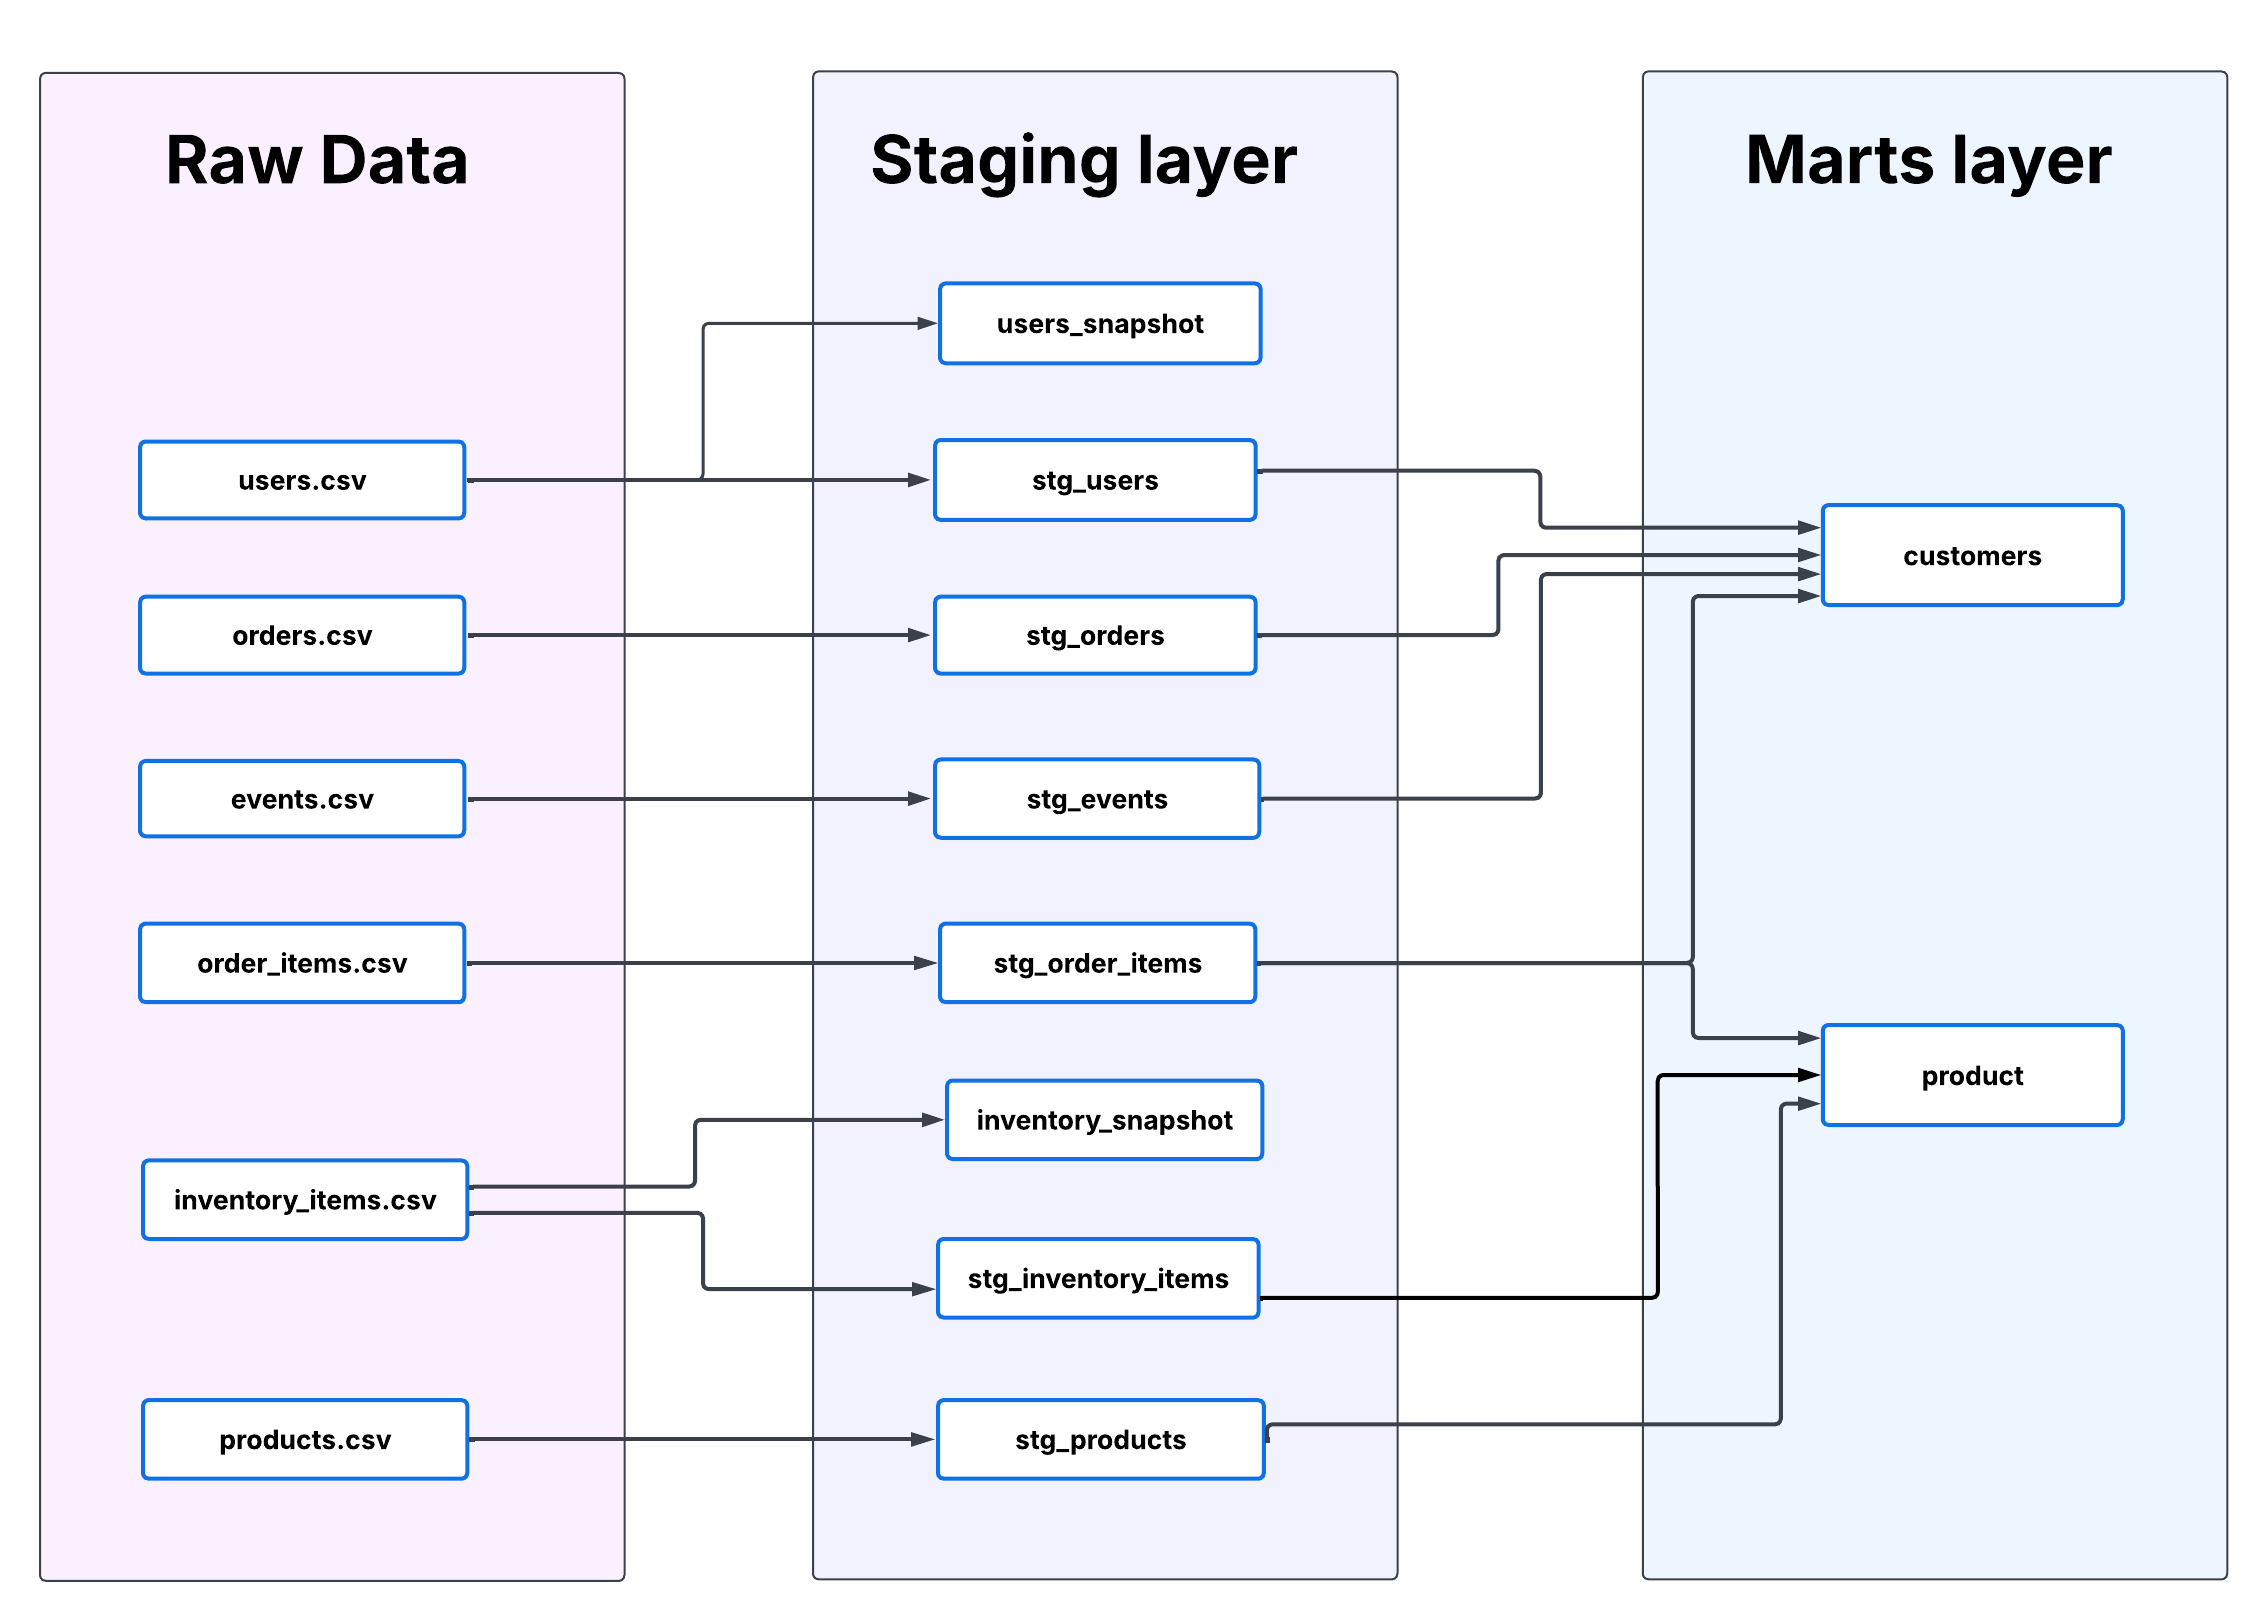
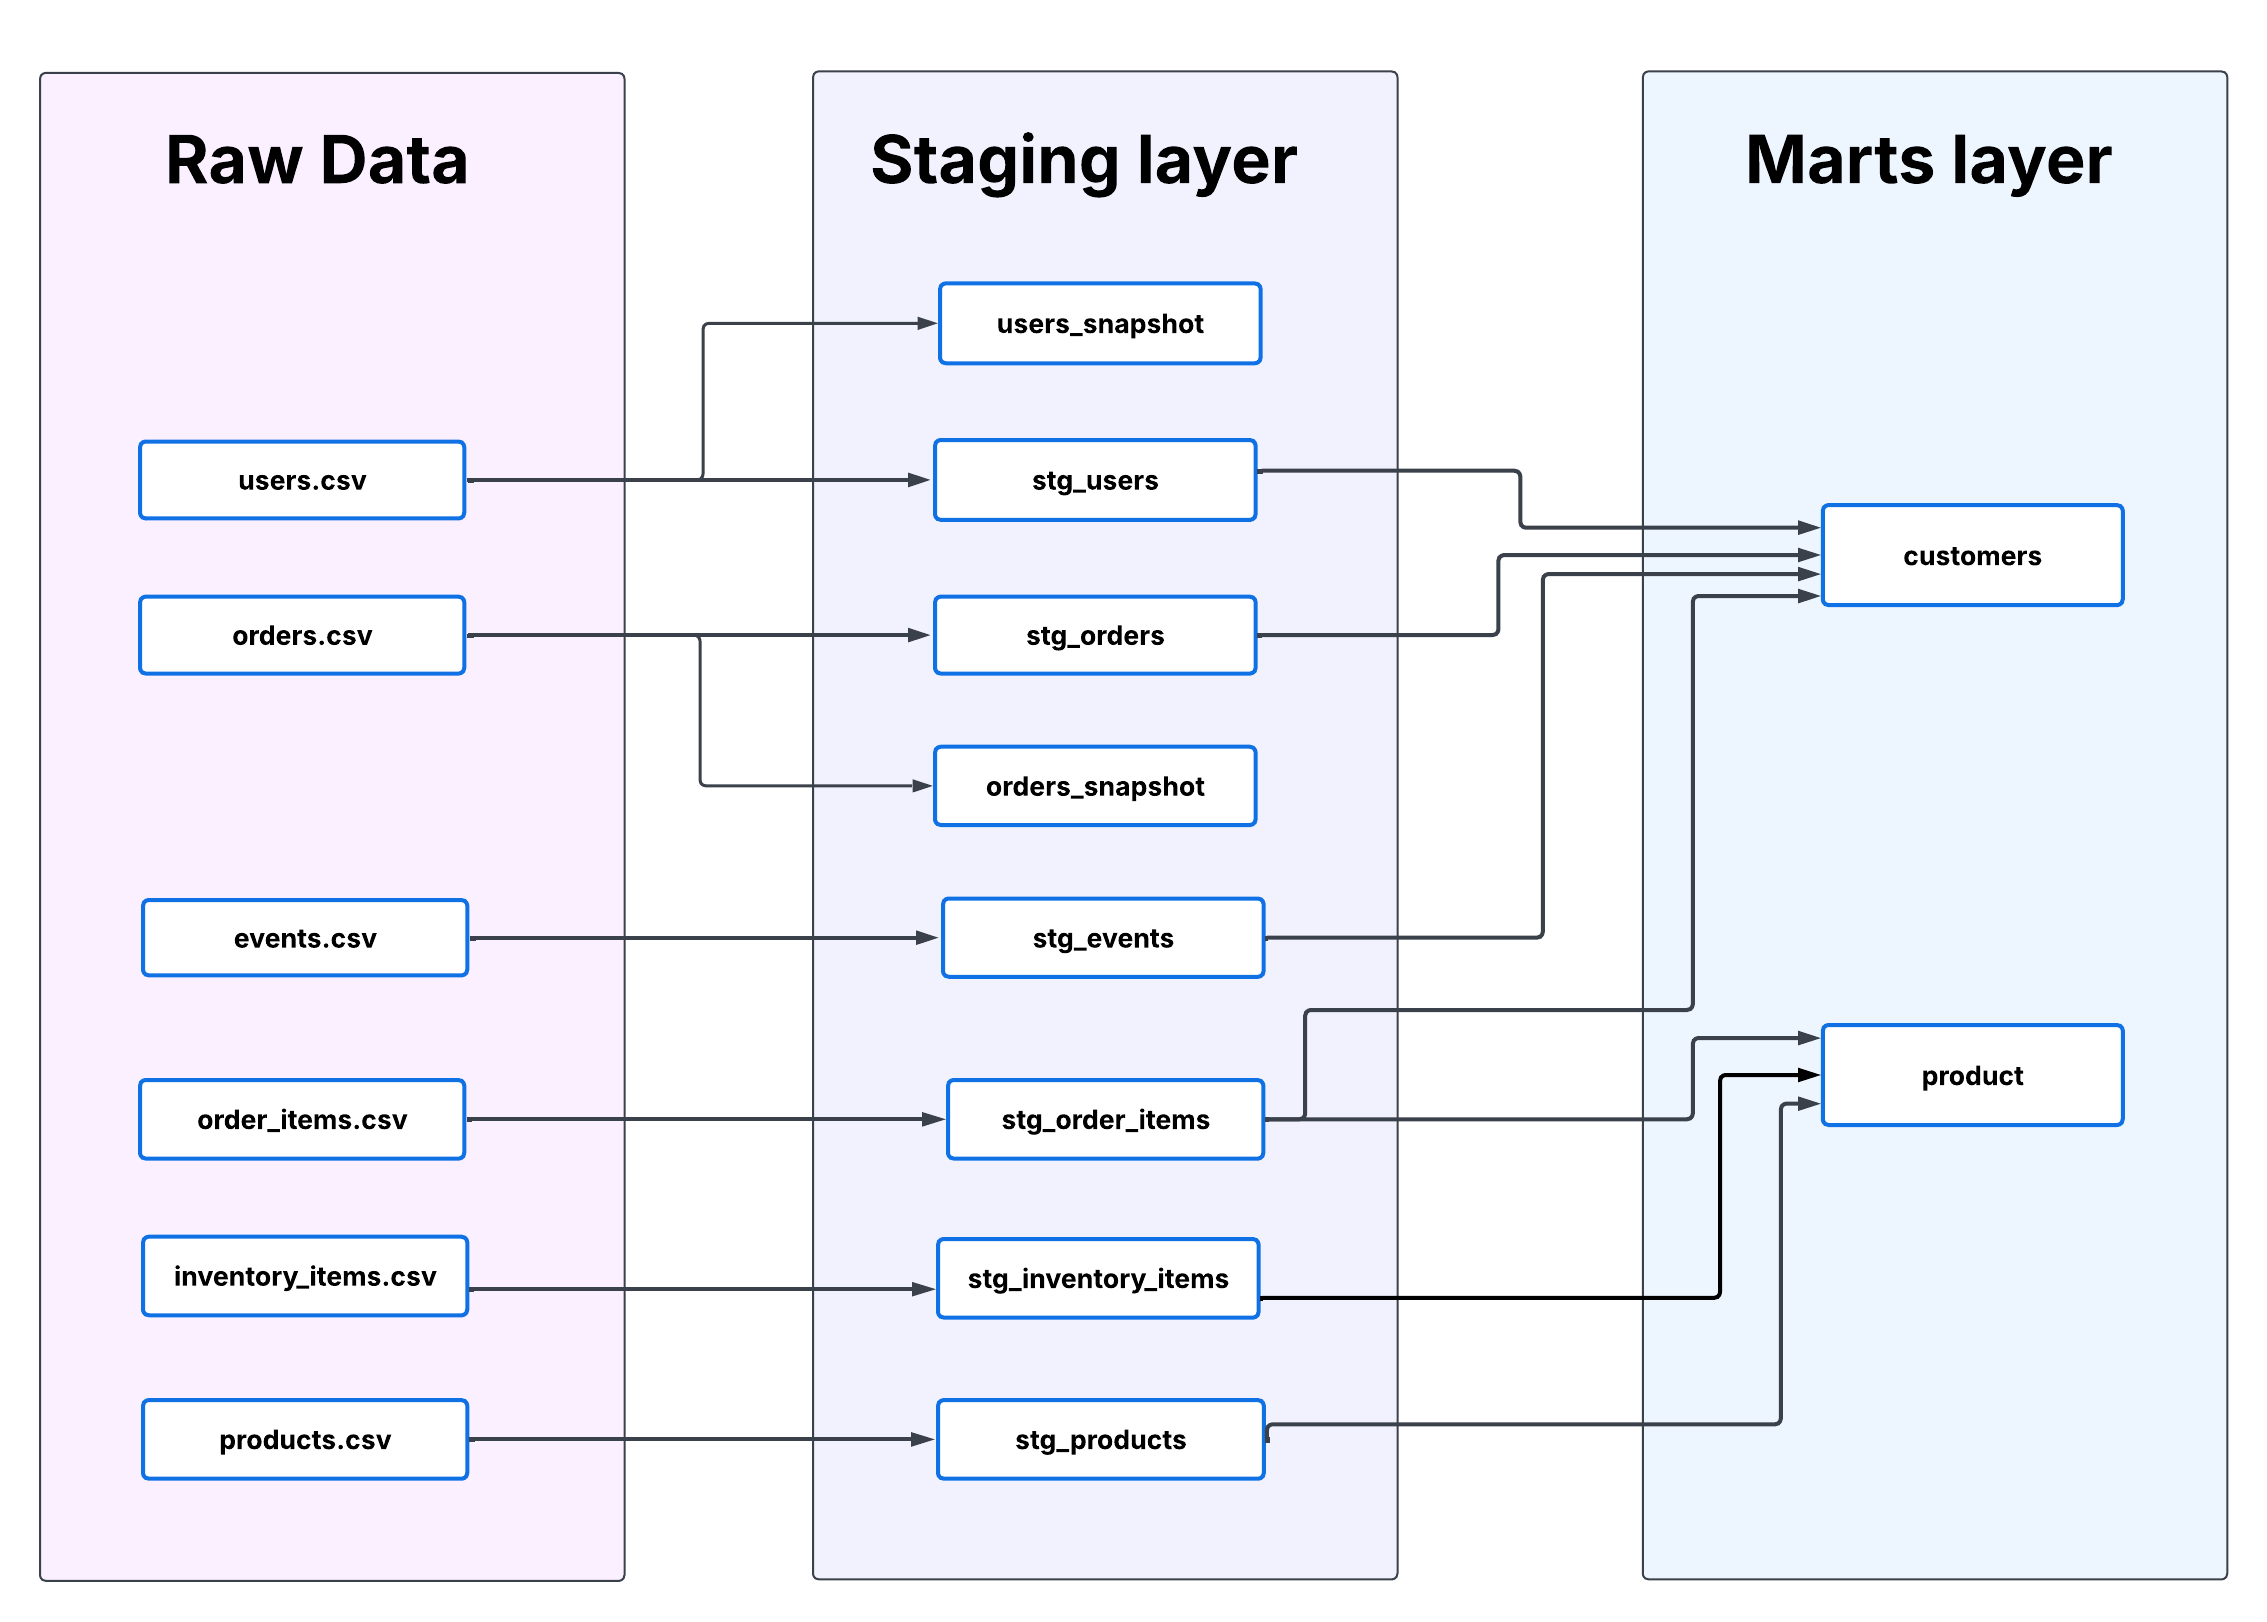
Editing the README

diff --git a/README.md b/README.md
@@ -57,7 +57,7 @@ The source dataset contains customer, order, inventory, product and event inform
 
 The following diagram shows the relationships between the different tables.
 
-![Entity Relationship Diagram](images/erd.png)
+![Entity Relationship Diagram](images/ERD.png)
 
 ## Loading the Data
 
@@ -92,17 +92,13 @@ These marts are designed to answer common business questions while providing cle
 
 ### Customers
 
-**Grain**
-
-One row per customer.
+**Grain :** One row per customer.
 
 The model combines customer information with order history and session activity to provide customer-level metrics.
 
 ### Product
 
-**Grain**
-
-One row per product.
+**Grain :** One row per product.
 
 The model aggregates sales information at the product level.
 
@@ -114,7 +110,7 @@ Two snapshots were created to preserve historical changes.
 
 Tracks changes in the order status.
 
-Whenever an order status changes, dbt records a new version of that row, allowing historical analysis of the order lifecycle.
+Whenever an order status changes, dbt records a new version of that row.
 
 ### Users Snapshot
 
@@ -139,14 +135,14 @@ The project includes both generic and custom tests to ensure data quality.
 
 ### Generic Tests
 
-The following built-in dbt tests are used:
+The following dbt tests are used:
 
 - unique
 - not_null
 - accepted_values
 - relationships
 
-These tests validate primary keys, mandatory fields, valid categorical values, and referential integrity between models.
+These tests validate primary keys, mandatory fields, valid categorical values (acceptd values), and referential integrity between models (relationships).
 
 ### Custom Generic Test
 
@@ -183,5 +179,5 @@ Examples include:
 ├── tests/
 ├── dbt_project.yml
 ├── dev.duckdb   # The Database where all tables and views are stored
-|── load_data.py  # to load data into DuckDB
+|── load_data.py  #To load the source data into DuckDB.
 └── README.md
